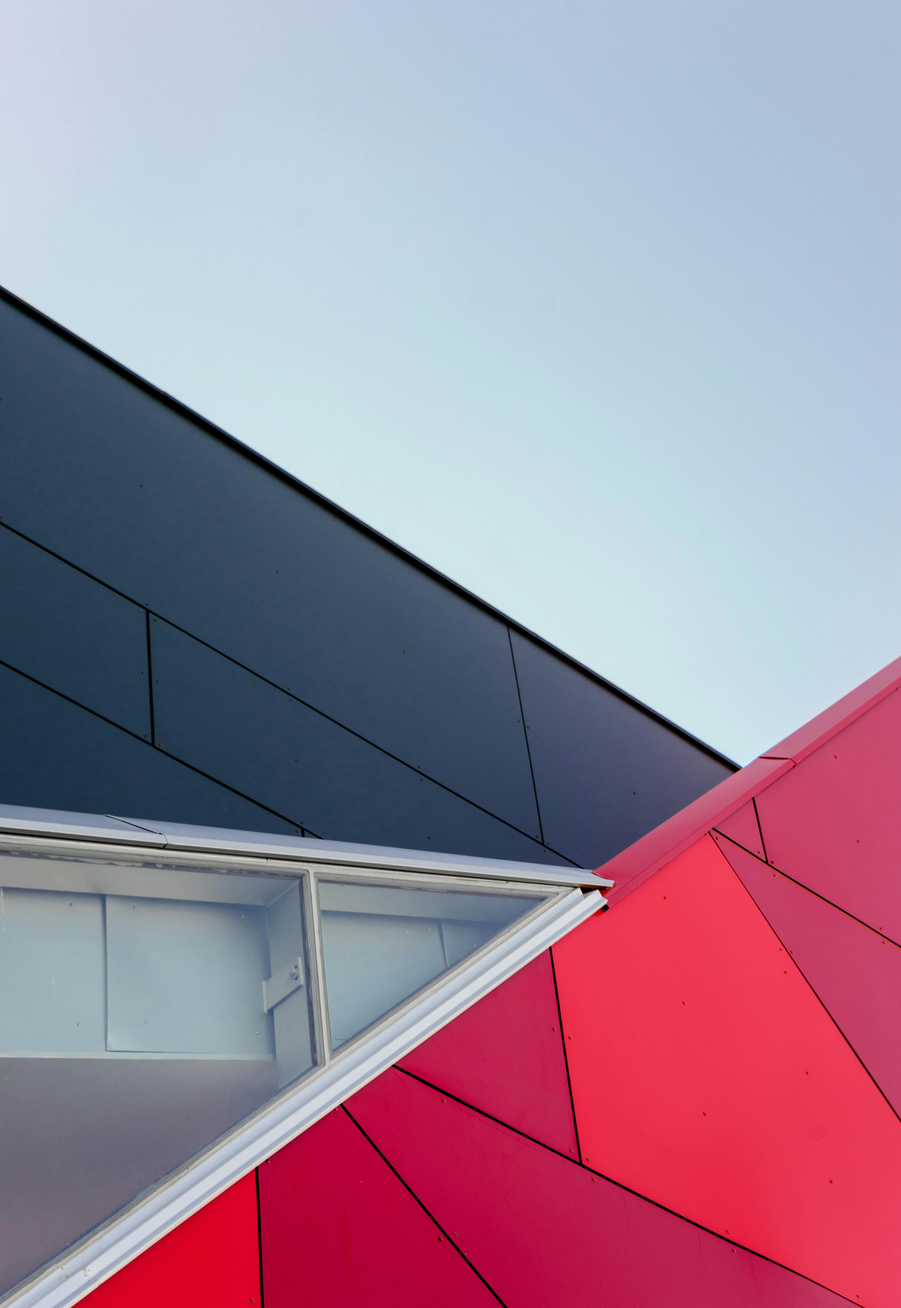
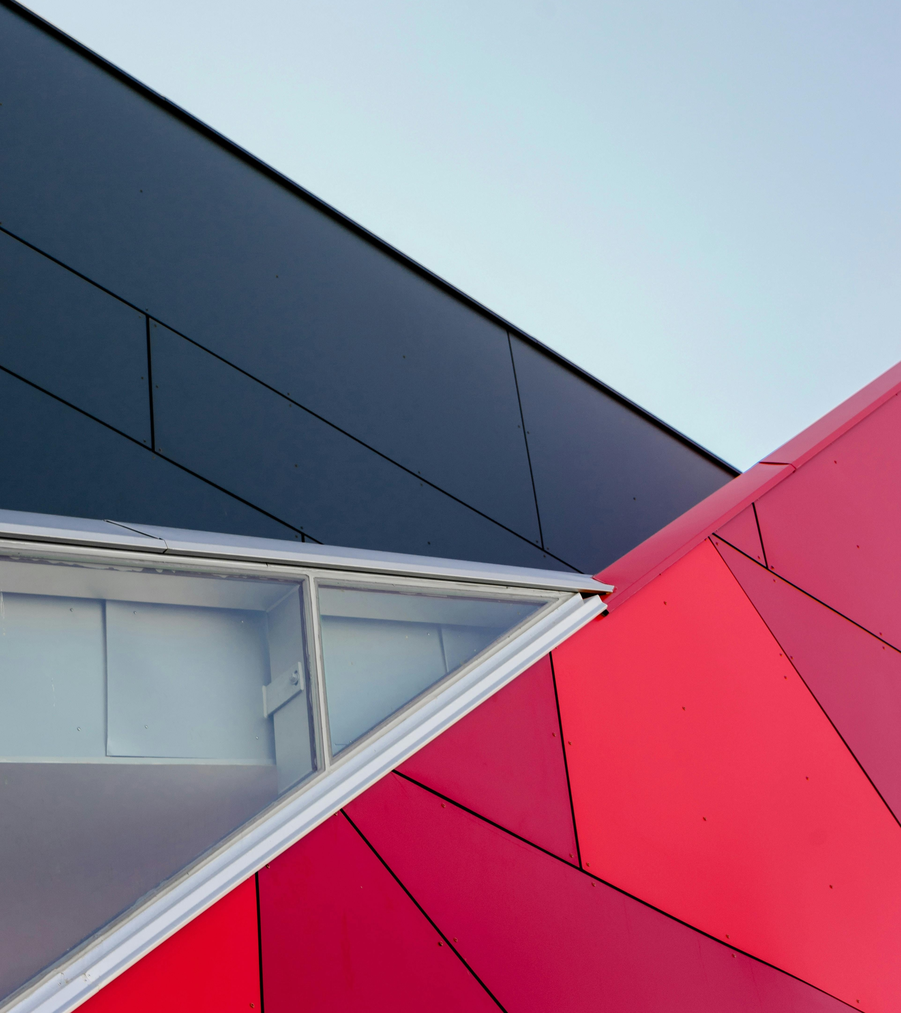
hero section edited

diff --git a/index.html b/index.html
@@ -52,6 +52,7 @@
 
     <header id="header" class="header fixed-img section">
         <!-- <a href="#offer"> <img class="header_logo" src="img/logo/logo.png" alt="Logo"></a> -->
+        <!-- <img class="thumbnail header-img__mobile" src="/img/pexels-scottwebb-1029611.jpg" alt=""> -->
         <h1 class="header__title">Zorganizowana grupa budowlana</h1>
         <p class="header__text">Firma budowlana inna niż wszystkie </p>
         <p class="header__sub-text">Przedkładamy jakość na ilość</p>

diff --git a/css/header.css b/css/header.css
@@ -9,7 +9,7 @@
 	height: 80vh;
 	width: 100%;
 	min-height: 800px;
-	background-image: var(--background-gradient), url('../img/pexels-scottwebb-1029611.jpg');
+	background-image: var(--background-gradient), url('../img/pexels-kseniachernaya-5691626.jpg');
 	background-size: cover;
 	background-position: center;
 	background-attachment: fixed;

diff --git a/css/hero.css b/css/hero.css
@@ -1,9 +1,6 @@
 .hero-img {
 	position: relative;
 	overflow: hidden;
-}
-.hero-img {
-	height: 50%;
 	width: 100%;
 }
 
